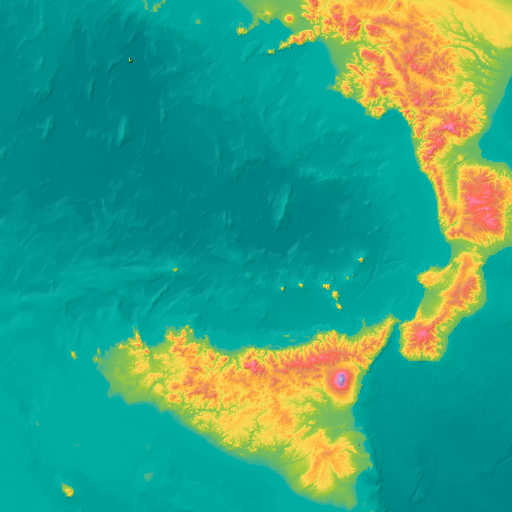
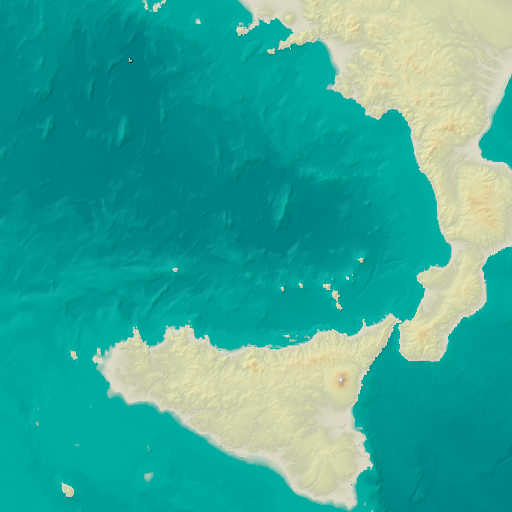
Added custom light color scheme

diff --git a/src/color_schemes.py b/src/color_schemes.py
@@ -4,25 +4,62 @@ import numpy as np
 
 
 class ColorSchema(NamedTuple):
-    # Colors and stops have equal length
+    # assert len(stops) == len(colors) + 1
     colors: np.ndarray
     stops: np.ndarray
 
 
+moritz_mix = ColorSchema(
+    colors = np.array([
+        [0, 0, 81],         # Dark Blue
+        [0, 174, 162],      # Light Blue
+        [222, 218, 200],    # Grey
+        [199, 202, 170],    # Darker Green
+        [210, 214, 170],    # Light Green
+        [222, 221, 176],    # Light Yellow
+        [225, 216, 165],    # Medium Champagne
+        [220, 199, 149],    # Wheat
+        [208, 178, 140],    # Tan
+        [190, 199, 192],    # Gray
+        [245, 245, 245],    # White   
+        [212, 235, 235],    # Ice Blue
+    ]),
+    stops = np.array([ 
+        # Stops blend from current to next value
+        # Color next top stop indicates which color is reached at this height
+        # For example, white transforms to blue between 4100 and 6600
+
+        -8000,  # Dark Blue
+        -40,    # Light Blue
+        0,      # Dark Green
+        150,    # Medium Green
+        400,    # Light Green
+        800,    # Light Yellow
+        1350,   # Gold	
+        1800,   # Red
+        2300,   # Violet
+        3000,   # Grey
+        3100,   # White
+        4100,   # Ice Blue
+        6600    
+     ])
+)
+
+
 traditional = ColorSchema(
     colors = np.array([
-        [0, 0, 81],
-        [0, 174, 162],
-        [59, 107, 65],
-        [58, 128, 55],
-        [107, 161, 76],
-        [234, 228, 150],
-        [205, 159, 67],
-        [183, 108, 93],
-        [150, 110, 150],
-        [175, 175, 175],
-        [245, 245, 245],
-        [144, 224, 255],
+        [0, 0, 81],         # Dark Blue
+        [0, 174, 162],      # Light Blue
+        [59, 107, 65],      # Dark Green
+        [58, 128, 55],      # Medium Green
+        [107, 161, 76],     # Light Green
+        [234, 228, 150],    # Light Yellow
+        [205, 159, 67],     # Gold
+        [183, 108, 93],     # Red
+        [150, 110, 150],    # Violet
+        [175, 175, 175],    # Gray
+        [245, 245, 245],    # White   
+        [144, 224, 255],    # Ice Blue
     ]),
     stops = np.array([ 
         # Stops blend from current to next value
@@ -38,27 +75,27 @@ traditional = ColorSchema(
         3000,   # Grey
         3000,   # Gra
         4100,   # White
-        6600    # Ice Blue
+        6600,   # Ice Blue
      ])
 )
 
 neon = ColorSchema(
     colors = np.array([
-        [0, 0, 81],
-        [0, 174, 162],
-        [107, 185, 100], # dark green
-        [158, 200, 62], # green
-        [250, 219, 84], # mustard
-        [255, 172, 64], # orange
-        [225, 142, 97], # brown
-        [255, 108, 79],  # red
-        [255, 132, 169], # pink
-        [170, 128, 203], # purple
-        [187, 180, 203], # gray
-        [239, 143, 244], # white
-        [123, 218, 255], # blue
+        [0, 0, 81],         # Dark Blue
+        [0, 174, 162],      # Light Blue
+        [107, 185, 100],    # Emerald
+        [158, 200, 62],     # Neon Green
+        [250, 219, 84],     # Lemon Yellow
+        [255, 172, 64],     # Orange
+        [225, 142, 97],     # Brown
+        [255, 108, 79],     # Red
+        [255, 132, 169],    # Pink
+        [170, 128, 203],    # Purple
+        [187, 180, 203],    # Gray
+        [239, 143, 244],    # White
+        [123, 218, 255],    # Blue
     ]),
-    stops = np.array([ # Stops blend from current to next value
+    stops = np.array([
         -8000,  # Dark Blue
         -40,    # Light Blue
         0,      # Emerald

diff --git a/src/converter.py b/src/converter.py
@@ -9,7 +9,7 @@ import PIL.Image as Img
 from PIL import ImageFile
 from tqdm import tqdm
 
-from .color_schemes import neon
+from .color_schemes import moritz_mix
 from .web_mercator import WebMercator
 
 # WGS 84, 1979
@@ -35,7 +35,7 @@ class Color:
     meters_per_degree = equator_radius * np.pi / 180
 
     # set color schema here
-    schema = neon
+    schema = moritz_mix
 
     # set intensity for hillshading here
     intensity = 0.32
